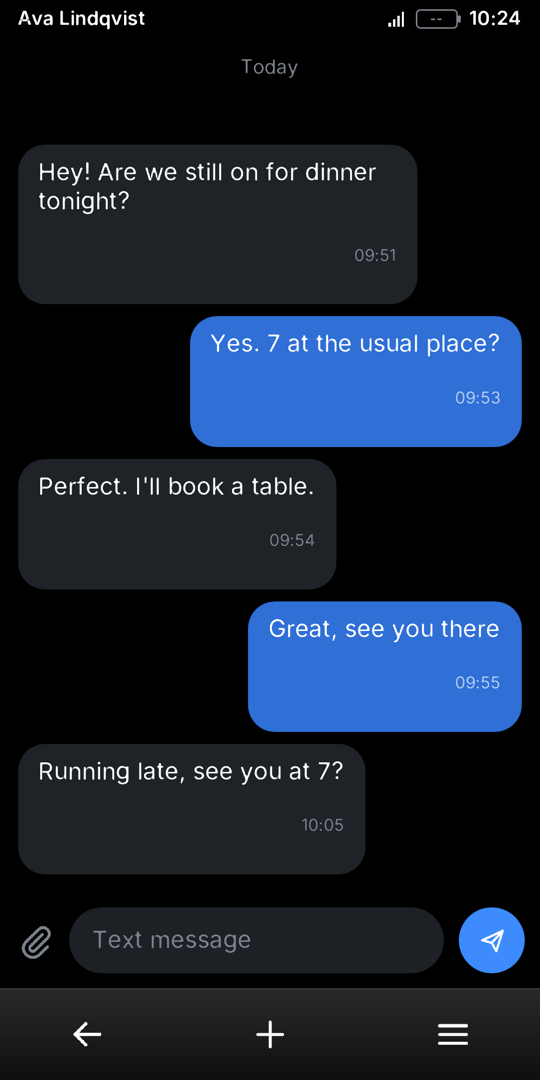
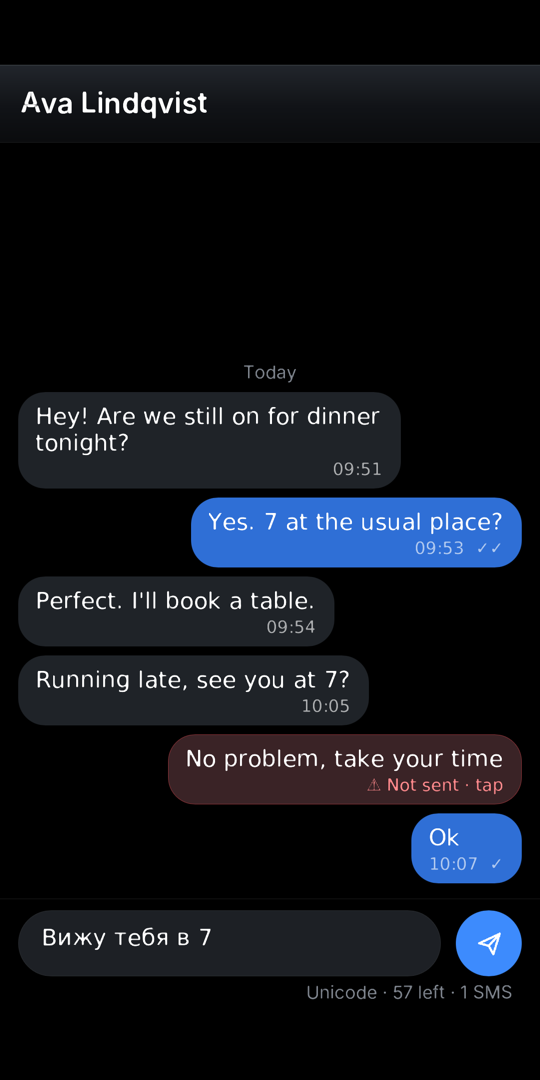
Site: SMS (C9) done, the Pixel 3a community port, NEOPHONE's own screens for Calls, Recents, Contacts and Messages
- roadmap: C9 done 2026-11-16 (AS_OF moved)
- devices: sargo is a community port (kernel #18); bonito adds SMS
- home: the C9 pill
- screens: the shell's old mock frames replaced by NEOPHONE snapshots
  (padded to 1:2), sync-screens.sh takes them from ../phone

diff --git a/screens.html b/screens.html
@@ -54,12 +54,12 @@
 
     <section class="group" aria-labelledby="g-phone">
       <h2 id="g-phone">Calls and people</h2>
-      <p>Calls go out over LTE with two-way audio on the phone. These frames show the call view, the call log, Contacts and Messages.</p>
+      <p>Calls have two-way audio on the phone, and SMS go both ways. Phone, Contacts and Messages are one app, NEOPHONE: these frames are its own snapshots (the app area, without the status bar).</p>
       <div class="gallery">
-        <figure><div class="phone"><img src="/img/screens/phone-call.png" alt="Call screen: calling, with Add call, Mute, Keypad, Speaker and End" loading="lazy"></div><figcaption><b>Call</b><span>Mute, Keypad, Speaker</span></figcaption></figure>
-        <figure><div class="phone"><img src="/img/screens/phone-log.png" alt="Phone app call log" loading="lazy"></div><figcaption><b>Recents</b><span>Call log</span></figcaption></figure>
-        <figure><div class="phone"><img src="/img/screens/contacts.png" alt="Contacts list" loading="lazy"></div><figcaption><b>Contacts</b><span>Search and cards</span></figcaption></figure>
-        <figure><div class="phone"><img src="/img/screens/messages-thread.png" alt="Messages conversation thread" loading="lazy"></div><figcaption><b>Messages</b><span>A thread</span></figcaption></figure>
+        <figure><div class="phone"><img src="/img/screens/phone-call.png" alt="Active call with its timer, Mute, Keypad, Speaker, Hold and End" loading="lazy"></div><figcaption><b>Call</b><span>Mute, Keypad, Speaker, Hold</span></figcaption></figure>
+        <figure><div class="phone"><img src="/img/screens/phone-log.png" alt="Recent calls with filter chips" loading="lazy"></div><figcaption><b>Recents</b><span>Call log, filters</span></figcaption></figure>
+        <figure><div class="phone"><img src="/img/screens/contacts.png" alt="Contacts list with Latin, Armenian and Cyrillic sections" loading="lazy"></div><figcaption><b>Contacts</b><span>Search, per-script index</span></figcaption></figure>
+        <figure><div class="phone"><img src="/img/screens/messages-thread.png" alt="Messages thread with sent, delivered and failed bubbles" loading="lazy"></div><figcaption><b>Messages</b><span>A thread, delivery ticks</span></figcaption></figure>
       </div>
     </section>
 

diff --git a/assets/roadmap.js b/assets/roadmap.js
@@ -3,7 +3,7 @@
 // tests/roadmap.test.js checks ids, order and that states agree with dependencies.
 // To change a state, edit the stage here and move AS_OF.
 
-export const AS_OF = '2026-11-14';
+export const AS_OF = '2026-11-16';
 export const STATES = ['done', 'progress', 'blocked', 'planned'];
 export const STATE_LABEL = { done: 'Done', progress: 'In progress', blocked: 'Blocked', planned: 'Planned' };
 export const WHERE_LABEL = { phone: 'On the phone', installed: 'Installed', qemu: 'QEMU', host: 'Host tests' };
@@ -130,8 +130,8 @@ export const STAGES = [
     note: 'Recents, caller ID, call waiting, contacts and the blocklist, as the Phone app (NEOPHONE). Installed on slot a.', doc: 'telephony.md', after: ['C7'] },
   { id: 'ADSP', title: 'Modem restart without losing call audio', part: 'telephony', phase: 6, state: 'progress', date: '2026-11-13', where: 'phone',
     note: 'The next telephony step: keep the audio DSP in step when the modem restarts.', doc: 'telephony.md', after: ['C6'] },
-  { id: 'C9', title: 'Text messages (SMS)', part: 'telephony', phase: 6, state: 'planned', date: '', where: 'phone',
-    note: '', doc: 'telephony.md', after: ['C5'] },
+  { id: 'C9', title: 'Text messages (SMS)', part: 'telephony', phase: 6, state: 'done', date: '2026-11-16', where: 'phone',
+    note: 'SMS through the modem daemon, Messages as the third app of NEOPHONE, Reply with message and message blocking. Sent, delivered and received on the phone.', doc: 'telephony.md', after: ['C5'] },
   { id: 'C10', title: 'Mobile data', part: 'telephony', phase: 6, state: 'planned', date: '', where: 'phone',
     note: 'Internet over the cellular network, through the packet engine.', doc: 'telephony.md', after: ['C5b'] },
   { id: 'C12', title: 'Modem persistence and power', part: 'telephony', phase: 6, state: 'planned', date: '', where: 'phone',

diff --git a/devices.html b/devices.html
@@ -42,13 +42,13 @@
 
     <section aria-labelledby="dev-h">
       <h2 id="dev-h">Device matrix</h2>
-      <p class="muted">The Pixel 3a XL status comes from the roadmap. Shortlist rows are candidates, not ports.</p>
+      <p class="muted">The Pixel 3a XL status comes from the roadmap. The Pixel 3a is a community port; the other rows are candidates, not ports.</p>
       <div class="table-wrap">
         <table>
           <thead><tr><th>Phone (codename)</th><th>SoC</th><th>Status</th><th>New work</th></tr></thead>
           <tbody>
-            <tr><td><b>Google Pixel 3a XL (bonito)</b></td><td>SDM670</td><td><span class="pill done">kernel, storage, Wi-Fi, LTE calls</span></td><td>Calling C7, power, daily use</td></tr>
-            <tr><td>Google Pixel 3a (sargo)</td><td>SDM670</td><td><span class="pill">candidate</span></td><td>Same SoC: the SoC support carries over</td></tr>
+            <tr><td><b>Google Pixel 3a XL (bonito)</b></td><td>SDM670</td><td><span class="pill done">kernel, storage, Wi-Fi, calls, SMS</span></td><td>Emergency calls, mobile data, power</td></tr>
+            <tr><td><b>Google Pixel 3a (sargo)</b></td><td>SDM670</td><td><span class="pill progress">community port</span></td><td>Builds since 2026-11-16 (its board file and OLED panel, bonito's drivers); what works on it is unconfirmed: reports welcome</td></tr>
             <tr><td>OnePlus 6 (enchilada)</td><td>SDM845</td><td><span class="pill">candidate</span></td><td>A UFS storage driver, the main cost of the family</td></tr>
             <tr><td>Google Pixel 3 (blueline)</td><td>SDM845</td><td><span class="pill">candidate</span></td><td>As OnePlus 6</td></tr>
             <tr><td>Fairphone 4 (fp4)</td><td>SM7225</td><td><span class="pill">candidate</span></td><td>UFS and newer clock and power blocks</td></tr>

diff --git a/index.html b/index.html
@@ -82,6 +82,7 @@
           <span class="pill done">Calls and Wi-Fi</span>
           <span class="pill progress">Complete calls (C7)</span>
           <span class="pill done">Call log and contacts (C8)</span>
+          <span class="pill done">Text messages (C9)</span>
         </div>
         <p class="small" style="margin-top:14px"><a href="/roadmap">See every phase and stage</a></p>
       </div>
